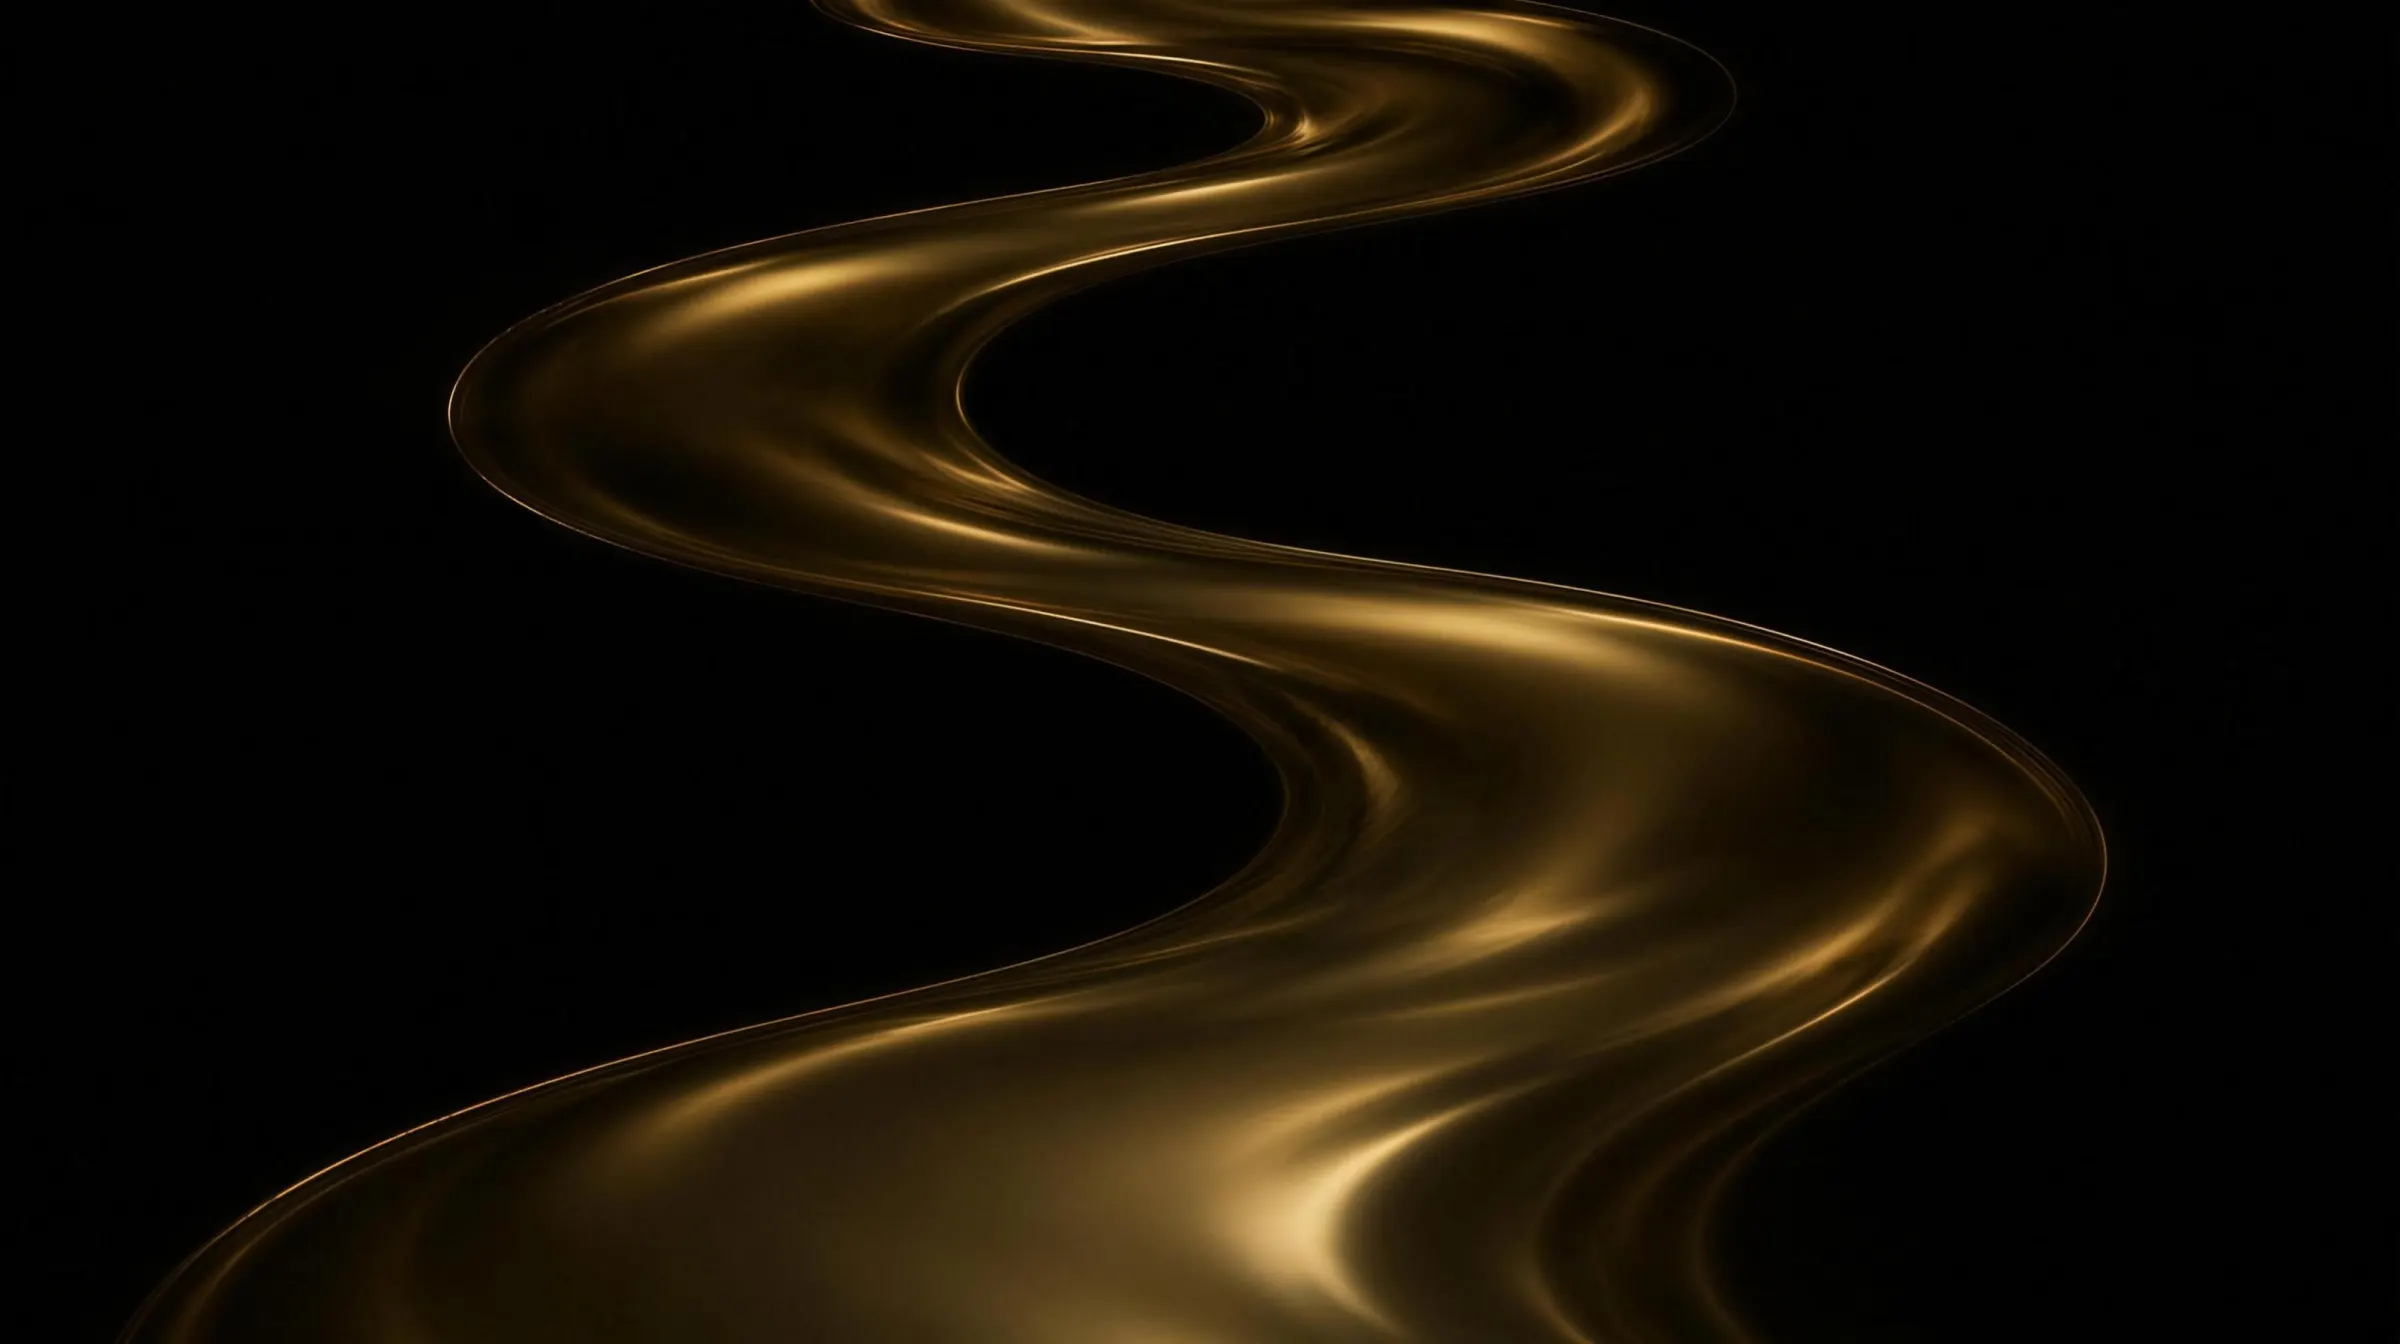
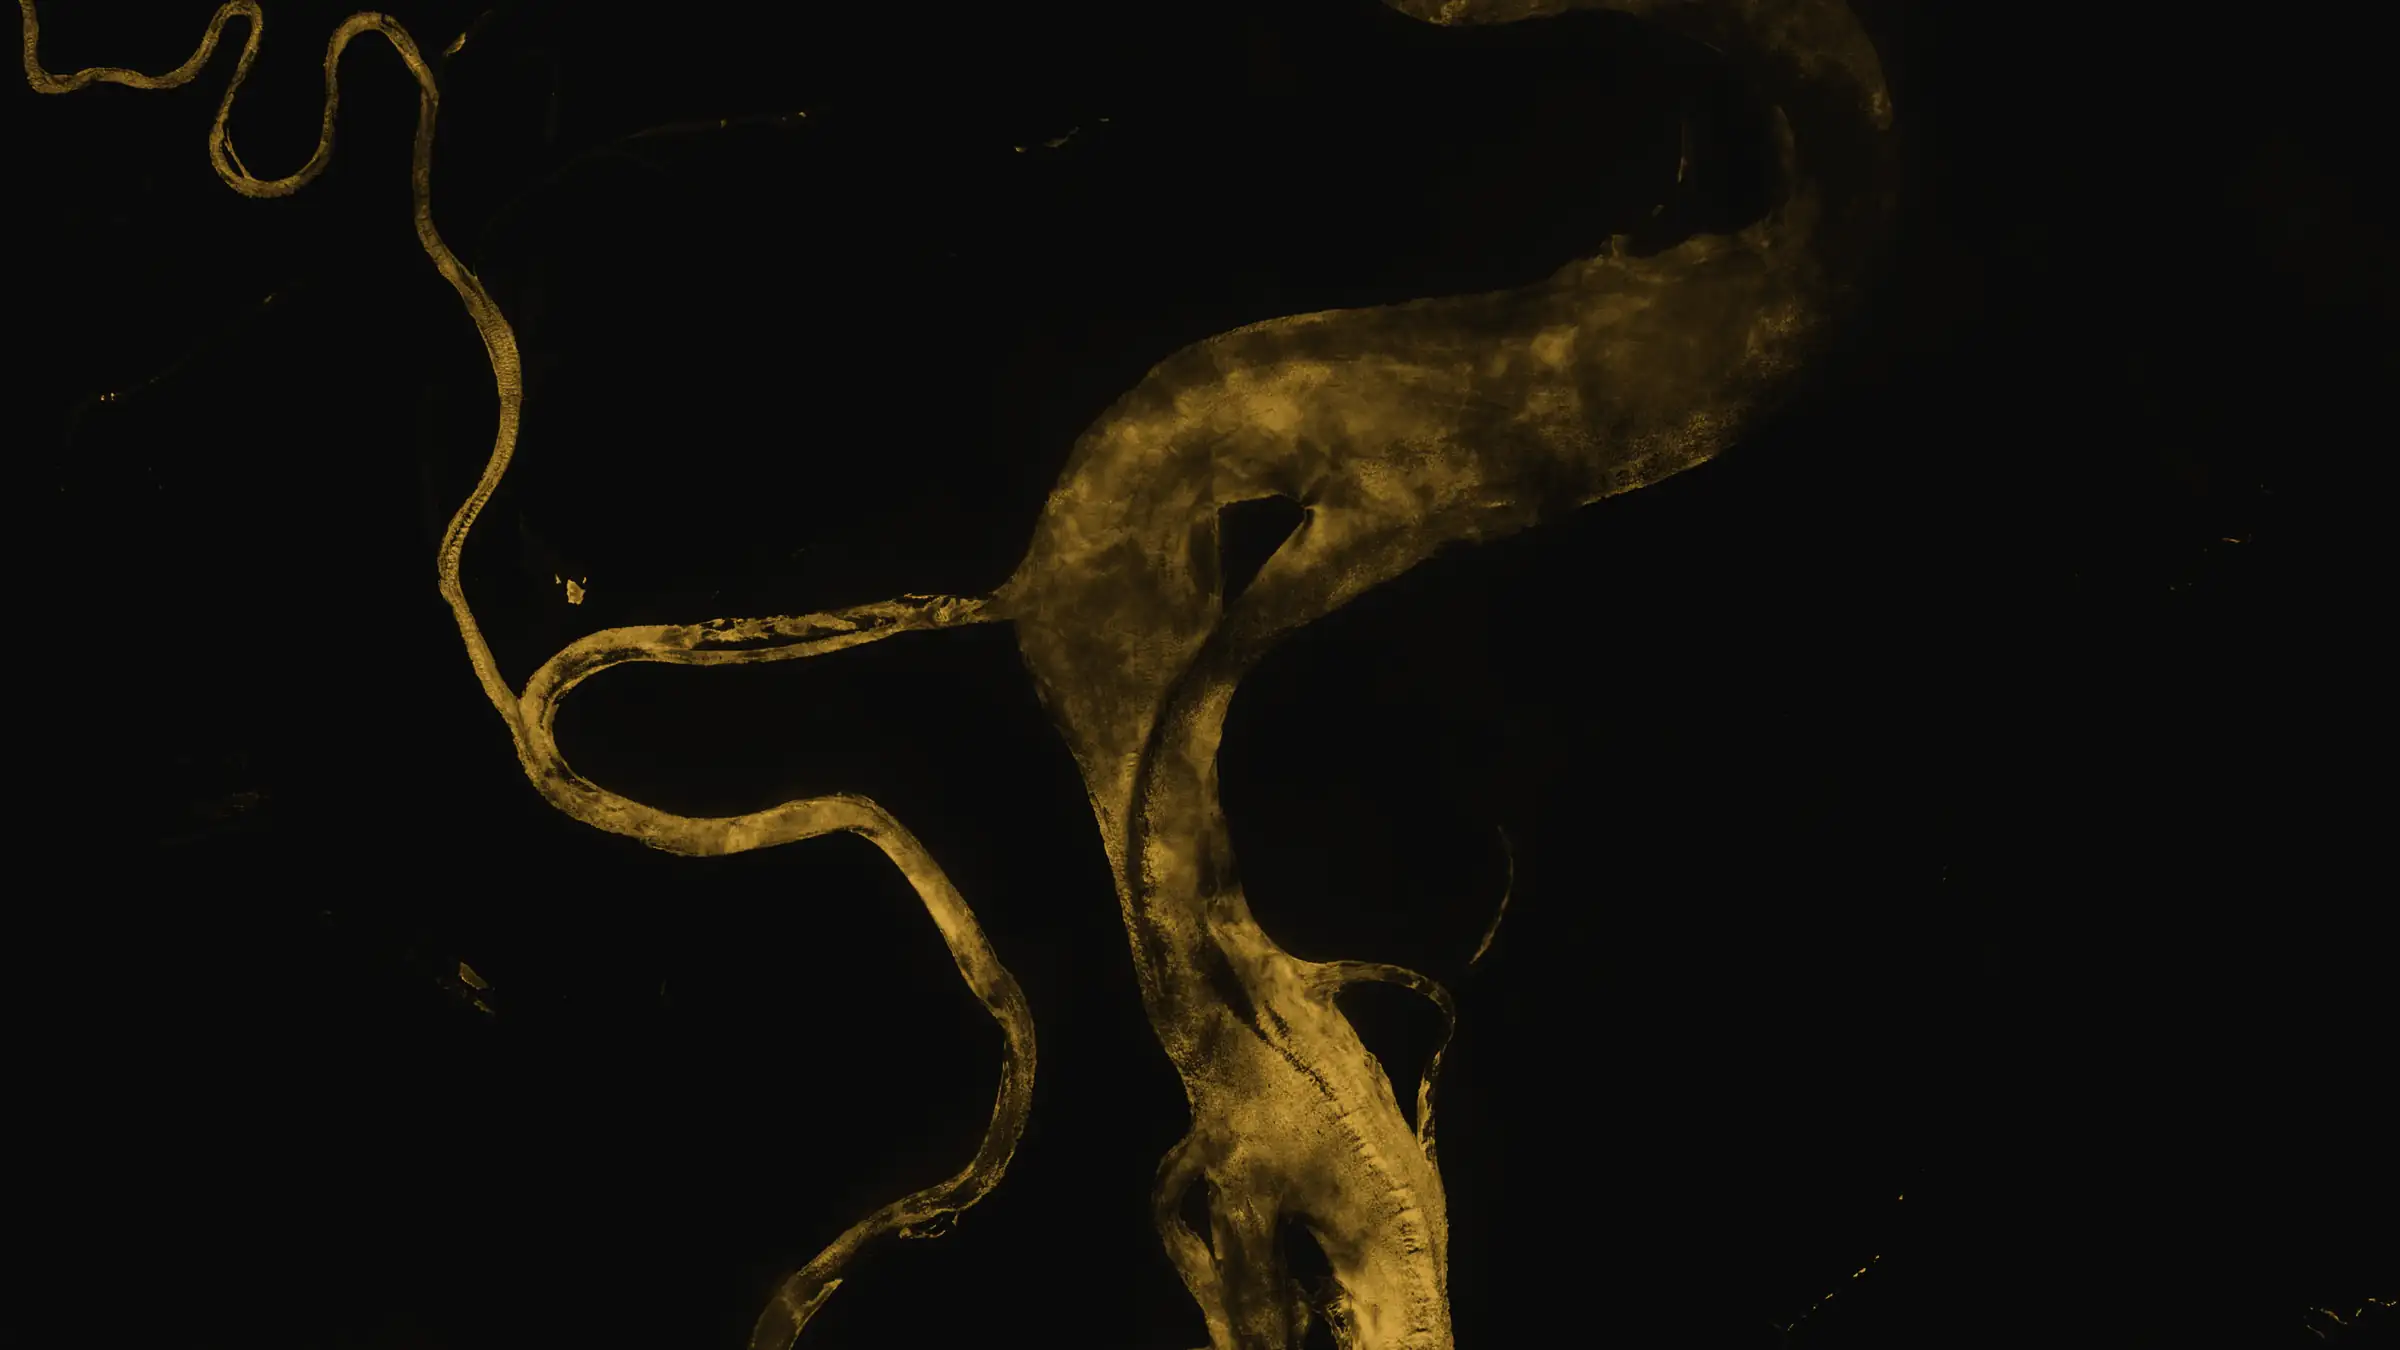
Gold river: a real NASA river photo instead of the generated render
The gold river behind every page was an AI-generated silk-ribbon render. It is
now a real photograph: NASA astronaut photo ISS043-E-101700, a river in Peru
in sunglint (public domain), turned to flow down the page and toned black and
gold with a gradient map by scripts/scenes/river.py. It is kept dim so the
white type and gold buttons stay the brightest things on the page. Same files
and CSS. Desktop WebP stays about 45 KB; phones get a true portrait crop
(900x1500, about 32 KB) instead of a stretched landscape one.

Removed: the generated river render (replaced in place).

diff --git a/scripts/scenes/river.py b/scripts/scenes/river.py
@@ -1,0 +1,53 @@
+# The gold river behind every page (public/home/river.*), from a real photograph instead of a generated render.
+# A NASA astronaut photograph of a river in sunglint (public domain) is toned into the site's black and gold with a gradient
+# map: the land falls to near-black, the sunlit water becomes the gold river. Nothing is painted in.
+#
+#   python3 -I scripts/scenes/river.py <photo.jpg> <out-dir> [rotate-degrees] [crop x,y,w,h as fractions]
+#
+# Writes river.jpg (3200 wide), river.webp (2400 wide, about 45 KB) and river-1200.webp (phones, a 900x1500 portrait crop, about 30 KB).
+import subprocess, sys, os
+from PIL import Image, ImageFilter
+import numpy as np
+
+src, out = sys.argv[1], sys.argv[2]
+rot = int(sys.argv[3]) if len(sys.argv) > 3 else 0
+crop = [float(v) for v in sys.argv[4].split(',')] if len(sys.argv) > 4 else None
+
+im = Image.open(src).convert('RGB')
+if rot: im = im.rotate(rot, expand=True)
+if crop:
+    W, H = im.size; x, y, w, h = crop
+    im = im.crop((int(x * W), int(y * H), int((x + w) * W), int((y + h) * H)))
+
+a = np.asarray(im).astype(np.float32) / 255
+lum = a @ np.array([0.2126, 0.7152, 0.0722], dtype=np.float32)
+lo, hi = np.percentile(lum, 1), np.percentile(lum, 99.85)
+t = np.clip((lum - lo) / (hi - lo), 0, 1) ** 2.2          # crush the land, keep the water bright
+
+# black → bronze → a muted gold, kept low so white text and the gold buttons stay the brightest things on the page.
+# #0a0a09 is the page.
+stops = [(0.00, (10, 10, 9)), (0.22, (17, 14, 9)), (0.48, (52, 38, 13)), (0.72, (112, 82, 24)), (0.88, (160, 120, 38)), (1.00, (204, 158, 62))]
+xs = np.array([s[0] for s in stops], dtype=np.float32)
+rgb = np.stack([np.interp(t, xs, np.array([s[1][c] for s in stops], dtype=np.float32)) for c in range(3)], axis=-1)
+img = Image.fromarray(np.clip(rgb, 0, 255).astype(np.uint8))
+
+os.makedirs(out, exist_ok=True)
+def save(i, path, w, q):
+    i = i.resize((w, round(i.height * w / i.width)), Image.LANCZOS)
+    if path.endswith('.jpg'):
+        i.save(path, quality=q, optimize=True, progressive=True)
+    else:
+        tmp = path + '.png'; i.save(tmp)
+        subprocess.run(['cwebp', '-quiet', '-q', str(q), '-m', '6', tmp, '-o', path], check=True); os.remove(tmp)
+
+# Desktop: 16:9 from the center
+W, H = img.size
+dh = min(H, round(W * 9 / 16)); dw = round(dh * 16 / 9)
+desk = img.crop(((W - dw) // 2, (H - dh) // 2, (W - dw) // 2 + dw, (H - dh) // 2 + dh))
+save(desk, os.path.join(out, 'river.jpg'), min(3200, desk.width), 84)
+save(desk, os.path.join(out, 'river.webp'), min(2400, desk.width), 60)
+# Phones: 3:5 portrait from the center
+ph = H; pw = min(W, round(ph * 3 / 5))
+phone = img.crop(((W - pw) // 2, 0, (W - pw) // 2 + pw, ph))
+save(phone, os.path.join(out, 'river-1200.webp'), 900, 60)   # the name predates this; 900 wide is plenty for a dim ground
+print('wrote', out, desk.size, phone.size)

diff --git a/scripts/scenes/README.md b/scripts/scenes/README.md
@@ -40,3 +40,11 @@ Photographs in `photos/` are public domain (CC0), found through Openverse, no at
 `photos/google.svg` is the Google logo from Wikimedia Commons, shown only as part of a Google results page.
 
 `real/` holds captures of the live UTern, Leed and BallotWatch home pages at iPhone size (393x852 @3x), taken 2026-11-22. Recapture them when those sites change.
+
+## The gold river
+
+`public/home/river.jpg`, `river.webp` and `river-1200.webp` (phones) are a real photograph, not a render: NASA astronaut photograph ISS043-E-101700, "View of Peru", a river in sunglint (public domain, [Wikimedia Commons](https://commons.wikimedia.org/wiki/File:ISS043-E-101700_-_View_of_Peru.jpg)). `river.py` turns it to flow down the page and tones it black and gold with a gradient map, kept dim so text stays readable:
+
+```sh
+python3 -I scripts/scenes/river.py ISS043-E-101700_-_View_of_Peru.jpg public/home 90
+```
